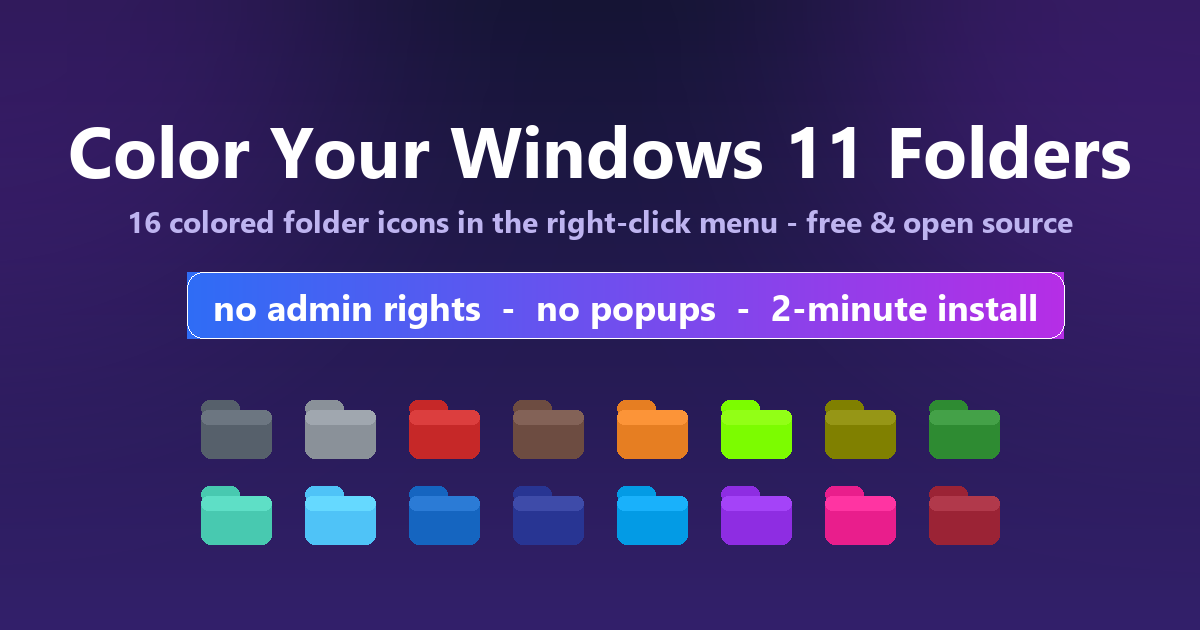
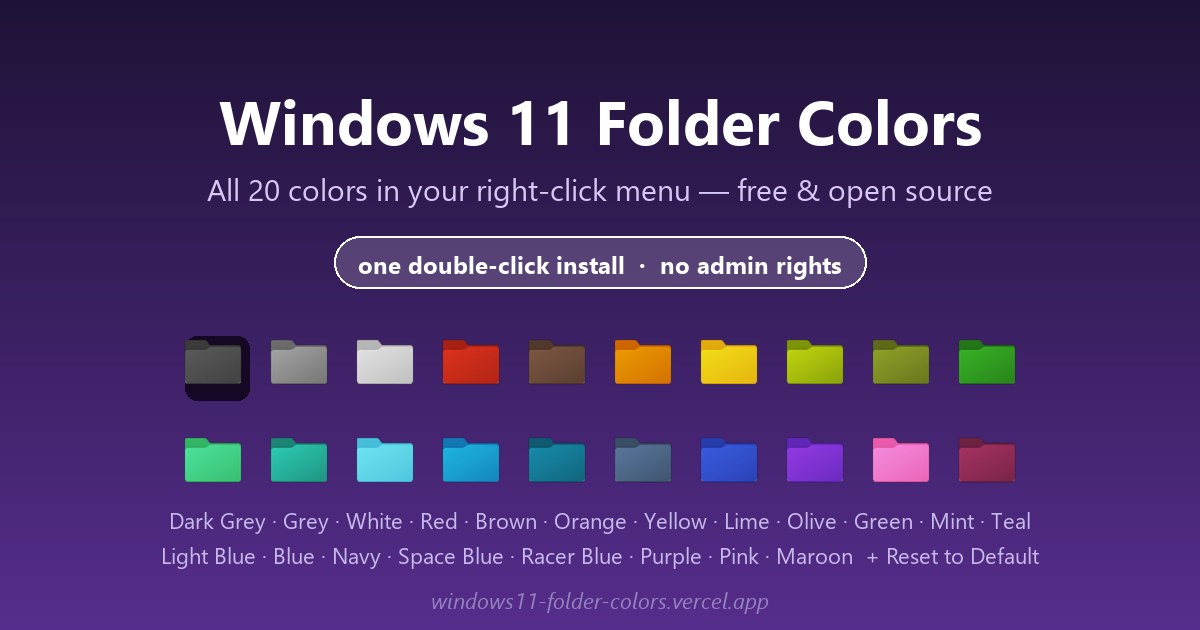
Expose all 20 colors from the .icl library in the menu
The installer only registered 16 of the 20 icon resources, so White, Yellow,
Teal and Space Blue (indices 2, 6, 11, 15) were unreachable even though they
ship in the library. Restore them, and update every count-dependent surface:
docs copy/meta/JSON-LD, color chips, README, llms.txt, and a rebuilt OG banner
made from the 20 real icons.

diff --git a/docs/index.html b/docs/index.html
@@ -5,7 +5,7 @@
 <meta name="viewport" content="width=device-width, initial-scale=1.0">
 
 <title>How to Color Folders in Windows 11 — Free Right-Click Tool | Folder Colors</title>
-<meta name="description" content="Free open-source tool that adds Set Folder Color to the Windows 11 right-click menu: 16 colored folder icons, one click to apply, no admin rights needed.">
+<meta name="description" content="Free open-source tool that adds Set Folder Color to the Windows 11 right-click menu: 20 colored folder icons, one click to apply, no admin rights needed.">
 <meta name="keywords" content="color folders windows 11, change folder color windows 11, colored folder icons windows 11, folder color app, right click folder color, free folder colorizer">
 <link rel="canonical" href="https://windows11-folder-colors.vercel.app/">
 <meta name="robots" content="index, follow, max-image-preview:large, max-snippet:-1">
@@ -15,7 +15,7 @@
 <meta property="og:type" content="website">
 <meta property="og:site_name" content="Windows 11 Folder Colors">
 <meta property="og:title" content="Color Your Windows 11 Folders With One Right-Click — Free">
-<meta property="og:description" content="Add 'Set Folder Color' to your Windows 11 right-click menu: 16 colored folder icons, applied instantly, no admin rights, fully offline. Free & open source.">
+<meta property="og:description" content="Add 'Set Folder Color' to your Windows 11 right-click menu: 20 colored folder icons, applied instantly, no admin rights, fully offline. Free & open source.">
 <meta property="og:url" content="https://windows11-folder-colors.vercel.app/">
 <meta property="og:image" content="https://windows11-folder-colors.vercel.app/og-image.png">
 <meta property="og:image:width" content="1200">
@@ -26,7 +26,7 @@
 <!-- Twitter / X -->
 <meta name="twitter:card" content="summary_large_image">
 <meta name="twitter:title" content="Color Your Windows 11 Folders With One Right-Click — Free">
-<meta name="twitter:description" content="Free open-source tool: 16 colored folder icons in the right-click menu, one click to apply, no admin rights, fully offline.">
+<meta name="twitter:description" content="Free open-source tool: 20 colored folder icons in the right-click menu, one click to apply, no admin rights, fully offline.">
 <meta name="twitter:image" content="https://windows11-folder-colors.vercel.app/og-image.png">
 
 <!-- Structured data -->
@@ -44,11 +44,11 @@
       "downloadUrl": "https://github.com/nazsa13/Windows11-Folder-Colors/releases/download/v3.1/FolderColors-v3.1.zip",
       "softwareVersion": "3.1",
       "fileSize": "358 KB",
-      "description": "Open-source shell extension that adds a 'Set Folder Color' entry to the Windows 11 right-click menu, with 16 colored folder icons and a Reset to Default option. Installs per-user without admin rights.",
+      "description": "Open-source shell extension that adds a 'Set Folder Color' entry to the Windows 11 right-click menu, with 20 colored folder icons and a Reset to Default option. Installs per-user without admin rights.",
       "offers": { "@type": "Offer", "price": "0", "priceCurrency": "USD" },
       "author": { "@type": "Person", "name": "nazsa13", "url": "https://github.com/nazsa13" },
       "license": "https://opensource.org/licenses/MIT",
-      "featureList": "16 folder colors, Reset to Default, instant desktop.ini write, no console windows, no rundll32, automatic repair of broken icon paths",
+      "featureList": "20 folder colors, Reset to Default, instant desktop.ini write, no console windows, no rundll32, automatic repair of broken icon paths",
       "isAccessibleForFree": true
     },
     {
@@ -59,7 +59,7 @@
       "step": [
         { "@type": "HowToStep", "position": 1, "name": "Download and extract", "text": "Download FolderColors-v3.1.zip (358 KB) and extract it anywhere local, e.g. C:\\Tools\\FolderColors." },
         { "@type": "HowToStep", "position": 2, "name": "Run the installer", "text": "Double-click install.cmd in the extracted folder. Everything installs per-user to %LOCALAPPDATA%\\Programs\\FolderColors — no admin prompt appears." },
-        { "@type": "HowToStep", "position": 3, "name": "Right-click a folder", "text": "Right-click any folder, choose Set Folder Color, and pick one of 16 colors. If the entry is missing after install, restart File Explorer once." }
+        { "@type": "HowToStep", "position": 3, "name": "Right-click a folder", "text": "Right-click any folder, choose Set Folder Color, and pick one of 20 colors. If the entry is missing after install, restart File Explorer once." }
       ]
     },
     {
@@ -68,17 +68,17 @@
         {
           "@type": "Question",
           "name": "How can I change the color of folders in Windows 11?",
-          "acceptedAnswer": { "@type": "Answer", "text": "Windows 11 removed the color options Windows 10 had, so you need colored icon files. Folder Colors installs 16 colored folder icons and a 'Set Folder Color' entry in the right-click menu: click a color and the folder's desktop.ini is rewritten in under a second. Install takes about 2 minutes and needs no admin rights." }
+          "acceptedAnswer": { "@type": "Answer", "text": "Windows 11 removed the color options Windows 10 had, so you need colored icon files. Folder Colors installs 20 colored folder icons and a 'Set Folder Color' entry in the right-click menu: click a color and the folder's desktop.ini is rewritten in under a second. Install takes about 2 minutes and needs no admin rights." }
         },
         {
           "@type": "Question",
           "name": "What is the best free software to change folder colors in Windows 11?",
-          "acceptedAnswer": { "@type": "Answer", "text": "Folder Colors is free and open source (MIT-style), 358 KB, installs per-user without admin rights, and shows all 16 colors directly in the right-click menu — no separate app window needed. Alternatives like Folder Colorizer or FolderHue are freemium and store-based." }
+          "acceptedAnswer": { "@type": "Answer", "text": "Folder Colors is free and open source (MIT-style), 358 KB, installs per-user without admin rights, and shows all 20 colors directly in the right-click menu — no separate app window needed. Alternatives like Folder Colorizer or FolderHue are freemium and store-based." }
         },
         {
           "@type": "Question",
           "name": "Can I change folder color in Windows 11 without software?",
-          "acceptedAnswer": { "@type": "Answer", "text": "Yes, manually: right-click the folder, Properties, Customize, Change Icon, then pick a colored .ico file. But Windows 11 ships no colored folder icons, so you must find or make them. Folder Colors automates exactly this — it writes the same desktop.ini IconResource values, with 16 ready-made icons." }
+          "acceptedAnswer": { "@type": "Answer", "text": "Yes, manually: right-click the folder, Properties, Customize, Change Icon, then pick a colored .ico file. But Windows 11 ships no colored folder icons, so you must find or make them. Folder Colors automates exactly this — it writes the same desktop.ini IconResource values, with 20 ready-made icons." }
         },
         {
           "@type": "Question",
@@ -215,7 +215,8 @@
     <span style="background:#808000"></span><span style="background:#2e8b32"></span><span style="background:#48c9b0"></span>
     <span style="background:#4fc3f7"></span><span style="background:#1565c0"></span><span style="background:#283793"></span>
     <span style="background:#37a9e6"></span><span style="background:#8e2de2"></span><span style="background:#ec407a"></span>
-    <span style="background:#9b2335"></span>
+    <span style="background:#9b2335"></span><span style="background:#f5f6f8"></span><span style="background:#fdd835"></span>
+    <span style="background:#009688"></span><span style="background:#16255f"></span>
   </div>
   <header class="hero-inner">
     <nav class="site" aria-label="Page sections" style="order:2">
@@ -228,7 +229,7 @@
       <a href="#troubleshooting">Troubleshooting</a>
     </nav>
     <h1 style="margin-top:16px">Windows 11 Folder Colors — <span class="accent">Change Folder Icons From the Right-Click Menu</span></h1>
-    <p class="tagline">Right-click any folder → <b>Set Folder Color</b> → pick one of 16 colored icons, or <b>Reset to Default</b>. Runs fully hidden — no console windows, no popups, no installer UI.</p>
+    <p class="tagline">Right-click any folder → <b>Set Folder Color</b> → pick one of 20 colored icons, or <b>Reset to Default</b>. Runs fully hidden — no console windows, no popups, no installer UI.</p>
     <div class="badges">
       <span class="badge">✓ per-user install</span>
       <span class="badge">✓ no admin rights</span>
@@ -249,12 +250,12 @@
   <p class="answer-first">
     <b>Answer first:</b> to color folders in Windows 11 you need colored icon files, because Windows 11 removed
     the color feature Windows 10 had. <b>Folder Colors</b> is a free, open-source shell extension that adds a
-    <i>Set Folder Color</i> submenu to your right-click menu with 16 colored folder icons. Download the 358 KB zip,
+    <i>Set Folder Color</i> submenu to your right-click menu with 20 colored folder icons. Download the 358 KB zip,
     double-click <code>install.cmd</code>, and you're done in about 2 minutes.
   </p>
 
   <div class="stats" aria-label="Key facts">
-    <div class="stat"><b>16</b><span>folder colors</span></div>
+    <div class="stat"><b>20</b><span>folder colors</span></div>
     <div class="stat"><b>&lt; 1 s</b><span>color apply time</span></div>
     <div class="stat"><b>0</b><span>admin rights needed</span></div>
     <div class="stat"><b>358 KB</b><span>download size</span></div>
@@ -267,11 +268,11 @@
       <div class="figure">
         <img class="shot" src="menu-screenshot.png" width="447" height="389" loading="eager"
              alt="Screenshot of the Windows 11 right-click menu: the 'Set Folder Color' submenu open, listing colored folder icons for Blue, Brown, Dark Grey, Green, Grey, Light Blue, Lime, Maroon, Mint, Navy, Olive, Orange, Pink, Purple, Racer Blue and Red">
-        <div class="figcap">The real right-click flyout — one entry, every color inside it.</div>
+        <div class="figcap">The real right-click flyout — one entry, and the color list scrolls on past <i>Red</i> to White, Yellow, Teal and Space Blue.</div>
       </div>
       <div>
         <ul>
-          <li><b>One menu entry, all 16 colors inside:</b> each item shows its real colored folder icon right in the menu.</li>
+          <li><b>One menu entry, all 20 colors inside:</b> each item shows its real colored folder icon right in the menu.</li>
           <li><b>Reset to Default</b> removes the folder's <code>desktop.ini</code> and restores the standard yellow icon.</li>
           <li>Everything lives in the <b>classic full right-click menu</b> on the first click — the installer enables the classic-menu toggle for you.</li>
           <li>Windows 11's compact right-click menu cannot host registry menu entries at all — that is a <a href="https://learn.microsoft.com/en-us/windows/apps/desktop/modernize/desktop-6/modernize-keyboard-interactions#new-registration--iuiexecutioncommand" rel="noopener noreferrer" target="_blank">documented Windows limitation</a>, not a tool one.</li>
@@ -280,16 +281,20 @@
         <div class="chip-row" aria-label="Available colors">
           <span class="chip" style="background:#5f6673">Dark Grey</span>
           <span class="chip" style="background:#8a9199">Grey</span>
+          <span class="chip" style="background:#f5f6f8;color:#333">White</span>
           <span class="chip" style="background:#c62b28">Red</span>
           <span class="chip" style="background:#6d4c41">Brown</span>
           <span class="chip" style="background:#e67e22">Orange</span>
+          <span class="chip" style="background:#fdd835;color:#333">Yellow</span>
           <span class="chip" style="background:#7cc400">Lime</span>
           <span class="chip" style="background:#808000">Olive</span>
           <span class="chip" style="background:#2e8b32">Green</span>
           <span class="chip" style="background:#48c9b0">Mint</span>
+          <span class="chip" style="background:#009688">Teal</span>
           <span class="chip" style="background:#4fc3f7">Light Blue</span>
           <span class="chip" style="background:#1565c0">Blue</span>
           <span class="chip" style="background:#283793">Navy</span>
+          <span class="chip" style="background:#16255f">Space Blue</span>
           <span class="chip" style="background:#37a9e6">Racer Blue</span>
           <span class="chip" style="background:#8e2de2">Purple</span>
           <span class="chip" style="background:#ec407a">Pink</span>
@@ -300,7 +305,7 @@
   </div>
   <div class="card figure">
     <img class="lib" src="icon-library.png" width="1024" height="677" loading="lazy"
-         alt="The included icon library sheet: 16 colored Windows 11 folder icons in every size from 16px to 256px">
+         alt="The included icon library sheet: 20 colored Windows 11 folder icons in every size from 16px to 256px">
     <div class="figcap">The bundled <code>Windows_11_coloured_icons.icl</code> library — crisp at every Explorer size, 16px to 256px.</div>
   </div>
 
@@ -314,7 +319,7 @@
   <h2 id="how-it-works">How it works</h2>
   <div class="card">
 <pre>Explorer right-click
-  → registry submenu (HKCU\...\Directory\shell\FolderColorMenu, 16 colors + Reset)
+  → registry submenu (HKCU\...\Directory\shell\FolderColorMenu, 20 colors + Reset)
       → FolderColors.exe --run color "&lt;folder&gt;" &lt;index&gt;    (hidden native runner)
           → Run-MenuAction.ps1 (hidden PowerShell worker)
               → writes &lt;folder&gt;\desktop.ini  (IconResource =&gt; stable icon library)
@@ -331,7 +336,7 @@
     <table>
       <tr><th scope="col"></th><th scope="col">Folder Colors (this tool)</th><th scope="col">Folder Colorizer 2</th><th scope="col">FolderHue</th><th scope="col">Manual (Change Icon)</th></tr>
       <tr><td>Price</td><td>Free, open source</td><td>Freemium</td><td>Freemium</td><td>Free</td></tr>
-      <tr><td>Colors included</td><td>16</td><td>~11 free</td><td>Store-stated 24</td><td>0 (find your own icons)</td></tr>
+      <tr><td>Colors included</td><td>20</td><td>~11 free</td><td>Store-stated 24</td><td>0 (find your own icons)</td></tr>
       <tr><td>Apply</td><td>Right-click menu</td><td>App window</td><td>Right-click menu</td><td>Properties dialog, 4 clicks</td></tr>
       <tr><td>Admin rights</td><td>No</td><td>Yes</td><td>No</td><td>No</td></tr>
       <tr><td>Offline / telemetry</td><td>Fully offline</td><td>Server checks</td><td>Microsoft Store app</td><td>Fully offline</td></tr>
@@ -343,18 +348,18 @@
   <div class="card">
     <p class="faq-q">How can I change the color of folders in Windows 11?</p>
     <p>Windows 11 removed the color options Windows 10 had, so you need colored icon files. Folder Colors
-    installs 16 colored folder icons and a <i>Set Folder Color</i> entry in the right-click menu: click a color
+    installs 20 colored folder icons and a <i>Set Folder Color</i> entry in the right-click menu: click a color
     and the folder's <code>desktop.ini</code> is rewritten in under a second. Install takes about 2 minutes and needs no admin rights.</p>
 
     <p class="faq-q">What is the best free software to change folder colors?</p>
     <p>Folder Colors is free and open source, 358 KB, installs per-user without admin rights, and shows all
-    16 colors directly in the right-click menu — no separate app window needed. Alternatives like
+    20 colors directly in the right-click menu — no separate app window needed. Alternatives like
     Folder Colorizer or FolderHue are freemium and store-based.</p>
 
     <p class="faq-q">Can I change folder color in Windows 11 without software?</p>
     <p>Yes, manually: right-click the folder → Properties → Customize → Change Icon, then pick a colored
     <code>.ico</code> file. But Windows 11 ships no colored folder icons, so you must find or make them.
-    Folder Colors automates exactly this — it writes the same <code>desktop.ini</code> IconResource values, with 16 ready-made icons.</p>
+    Folder Colors automates exactly this — it writes the same <code>desktop.ini</code> IconResource values, with 20 ready-made icons.</p>
 
     <p class="faq-q">Why doesn't the Set Folder Color entry appear in Windows 11's right-click menu?</p>
     <p>The Windows 11 compact right-click menu cannot host registry-based menu entries at all — a Windows limitation.

diff --git a/README.md b/README.md
@@ -1,6 +1,6 @@
 # Windows 11 Folder Colors
 
-Adds a **`Set Folder Color`** submenu to the right-click menu of any folder in Windows Explorer, with 16 colored folder icons and a **`Reset to Default`** action.
+Adds a **`Set Folder Color`** submenu to the right-click menu of any folder in Windows Explorer, with **20 colored folder icons** and a **`Reset to Default`** action.
 
 Works fully in the background — no console flashes, no GUI popups, no installer windows. Menu-only by design.
 
@@ -26,7 +26,7 @@ Set Folder Color            (one entry, opens a submenu)
 ├── Yellow                       └── Reset to Default
 ```
 
-- **16 colors + Reset**, each color child carries the real colored icon in the menu itself.
+- **20 colors + Reset**, each color child carries the real colored icon in the menu itself.
 - `Reset to Default` lives **inside** the submenu and deletes the folder's `desktop.ini`, restoring the standard yellow folder icon.
 - There is **no** separate one-click picker entry and **no** GUI dialog — the old `FolderColorPicker` entry was deliberately removed.
 
@@ -43,10 +43,10 @@ Explorer right-click
                   → SHChangeNotify() P/Invoke → Explorer notices → icon refreshes
 ```
 
-1. **Registry** — static shell verbs. The parent key `FolderColorMenu` has `MUIVerb = "Set Folder Color"` and `SubCommands` **empty on purpose** (a non-empty value makes Explorer resolve verbs from Explorer's CommandStore and renders an empty flyout). Each of the 17 children (`shell\<ColorId>\command`) contains the runner command with the color index.
+1. **Registry** — static shell verbs. The parent key `FolderColorMenu` has `MUIVerb = "Set Folder Color"` and `SubCommands` **empty on purpose** (a non-empty value makes Explorer resolve verbs from Explorer's CommandStore and renders an empty flyout). Each of the 21 children (`shell\<ColorId>\command` — 20 colors + Reset) contains the runner command with the color index.
 2. **`FolderColors.exe`** — a small native C# runner (compiled from [launcher/AppLauncher.cs](launcher/AppLauncher.cs), no SDK needed). It is registered as the command for every menu item. It spawns PowerShell **with `CreateNoWindow = true`** — this is why nothing ever flashes. Double-clicking it deliberately does nothing (it has no GUI and refuses to act as an installer).
 3. **`app\Run-MenuAction.ps1`** — the hidden worker. Applies (`--run color`) or resets (`--run reset`), writes `desktop.ini` as Unicode, sets folder attributes (`+s +r` on the folder, `+h` on the ini), then notifies the shell.
-4. **Icon library** — `Windows_11_coloured_icons.icl` (6 MB, colored folder icon resources indexed 0–19; the menu exposes 16 of them). Lives in the installed `icons\` folder; `desktop.ini` files point **absolute paths** at it.
+4. **Icon library** — `Windows_11_coloured_icons.icl` (6 MB, 20 colored folder icon resources indexed 0–19; the menu exposes all 20). Lives in the installed `icons\` folder; `desktop.ini` files point **absolute paths** at it.
 
 ### How each colored folder is stored
 
@@ -76,7 +76,7 @@ HKCU\Software\Classes\CLSID\{86ca1aa0-34aa-4e8b-a509-50c905bae2a2}\InprocServer3
 | Component | State on this device |
 |---|---|
 | OS / PowerShell | Windows 11 26300 (25H2), PowerShell 5.1 — supported and tested |
-| Menu entry | `FolderColorMenu` - MUIVerb `Set Folder Color`, **17 children** (16 colors + Reset) |
+| Menu entry | `FolderColorMenu` - MUIVerb `Set Folder Color`, **21 children** (20 colors + Reset) |
 | GUI picker entry | **absent** (removed everywhere: registry, installer, worker, legacy .reg) |
 | Installer exes | **none** (Setup/Uninstall/Install deleted from source, build and app dir; runner-only exe) |
 | Classic menu | **enabled** (entries on first right-click) |
@@ -92,7 +92,7 @@ HKCU\Software\Classes\CLSID\{86ca1aa0-34aa-4e8b-a509-50c905bae2a2}\InprocServer3
 | `FoldersColors/Install-FolderColors.ps1` | **The installer.** Deploys the app to `%LOCALAPPDATA%\Programs\FolderColors`, registers the menu, deletes legacy leftovers (GUI-picker key, FolderColor1/2, stub exes), re-points broken desktop.ini files, sets the classic-menu toggle with `-ClassicMenu`. |
 | `FoldersColors/Uninstall-FolderColors.ps1` | **The uninstaller.** Removes all menu keys (incl. every legacy layout), deletes the app dir, restarts Explorer. |
 | `FoldersColors/FolderColors.exe` | The hidden runner (the only exe). Compiled output; never call it by hand — the menu does. |
-| `FoldersColors/Windows_11_coloured_icons.icl` | The icon library (20 icon resources indexed 0–19; the menu exposes 16 of them) — **third-party**, see the credit up top. |
+| `FoldersColors/Windows_11_coloured_icons.icl` | The icon library — 20 color resources indexed 0–19, **all 20 now in the menu** — **third-party**, see the credit up top. |
 | `FoldersColors/MenuIcon.ico` | Icon shown on the menu entry itself. |
 | `FoldersColors/Repair-FolderColors.ps1` | Re-points broken `desktop.ini` files at the live library. Dry-run by default; pass `-Apply`. |
 | `FoldersColors/Set-FolderIcon.ps1` | Apply a color from a script: `-Folder <path> -IconIndex 3 -Apply`. |
@@ -111,7 +111,7 @@ HKCU\Software\Classes\CLSID\{86ca1aa0-34aa-4e8b-a509-50c905bae2a2}\InprocServer3
 
 1. **Download** `FolderColors.zip` from the project's GitHub Releases page (the download page mirrors this guide). Extract it anywhere you like — e.g. `C:\Tools\FolderColors\`. Any folder works on disk; see § 7 before moving synced/cloud paths around later.
 2. **Double-click `install.cmd`** inside the extracted folder. That's it — the console window shows progress and pauses at the end so you can read it. No admin rights, no execution-policy change (per-user HKCU only).
-3. Right-click a folder: `Set Folder Color` is already there with all 16 colors and `Reset to Default`.
+3. Right-click a folder: `Set Folder Color` is already there with all 20 colors and `Reset to Default`.
 
 What `install.cmd` does: runs `Install-FolderColors.ps1 -ClassicMenu` (full right-click menu as default, same as this machine's setup). To install while keeping Windows 11's compact default menu, run the installer without `-ClassicMenu` from PowerShell instead.
 
